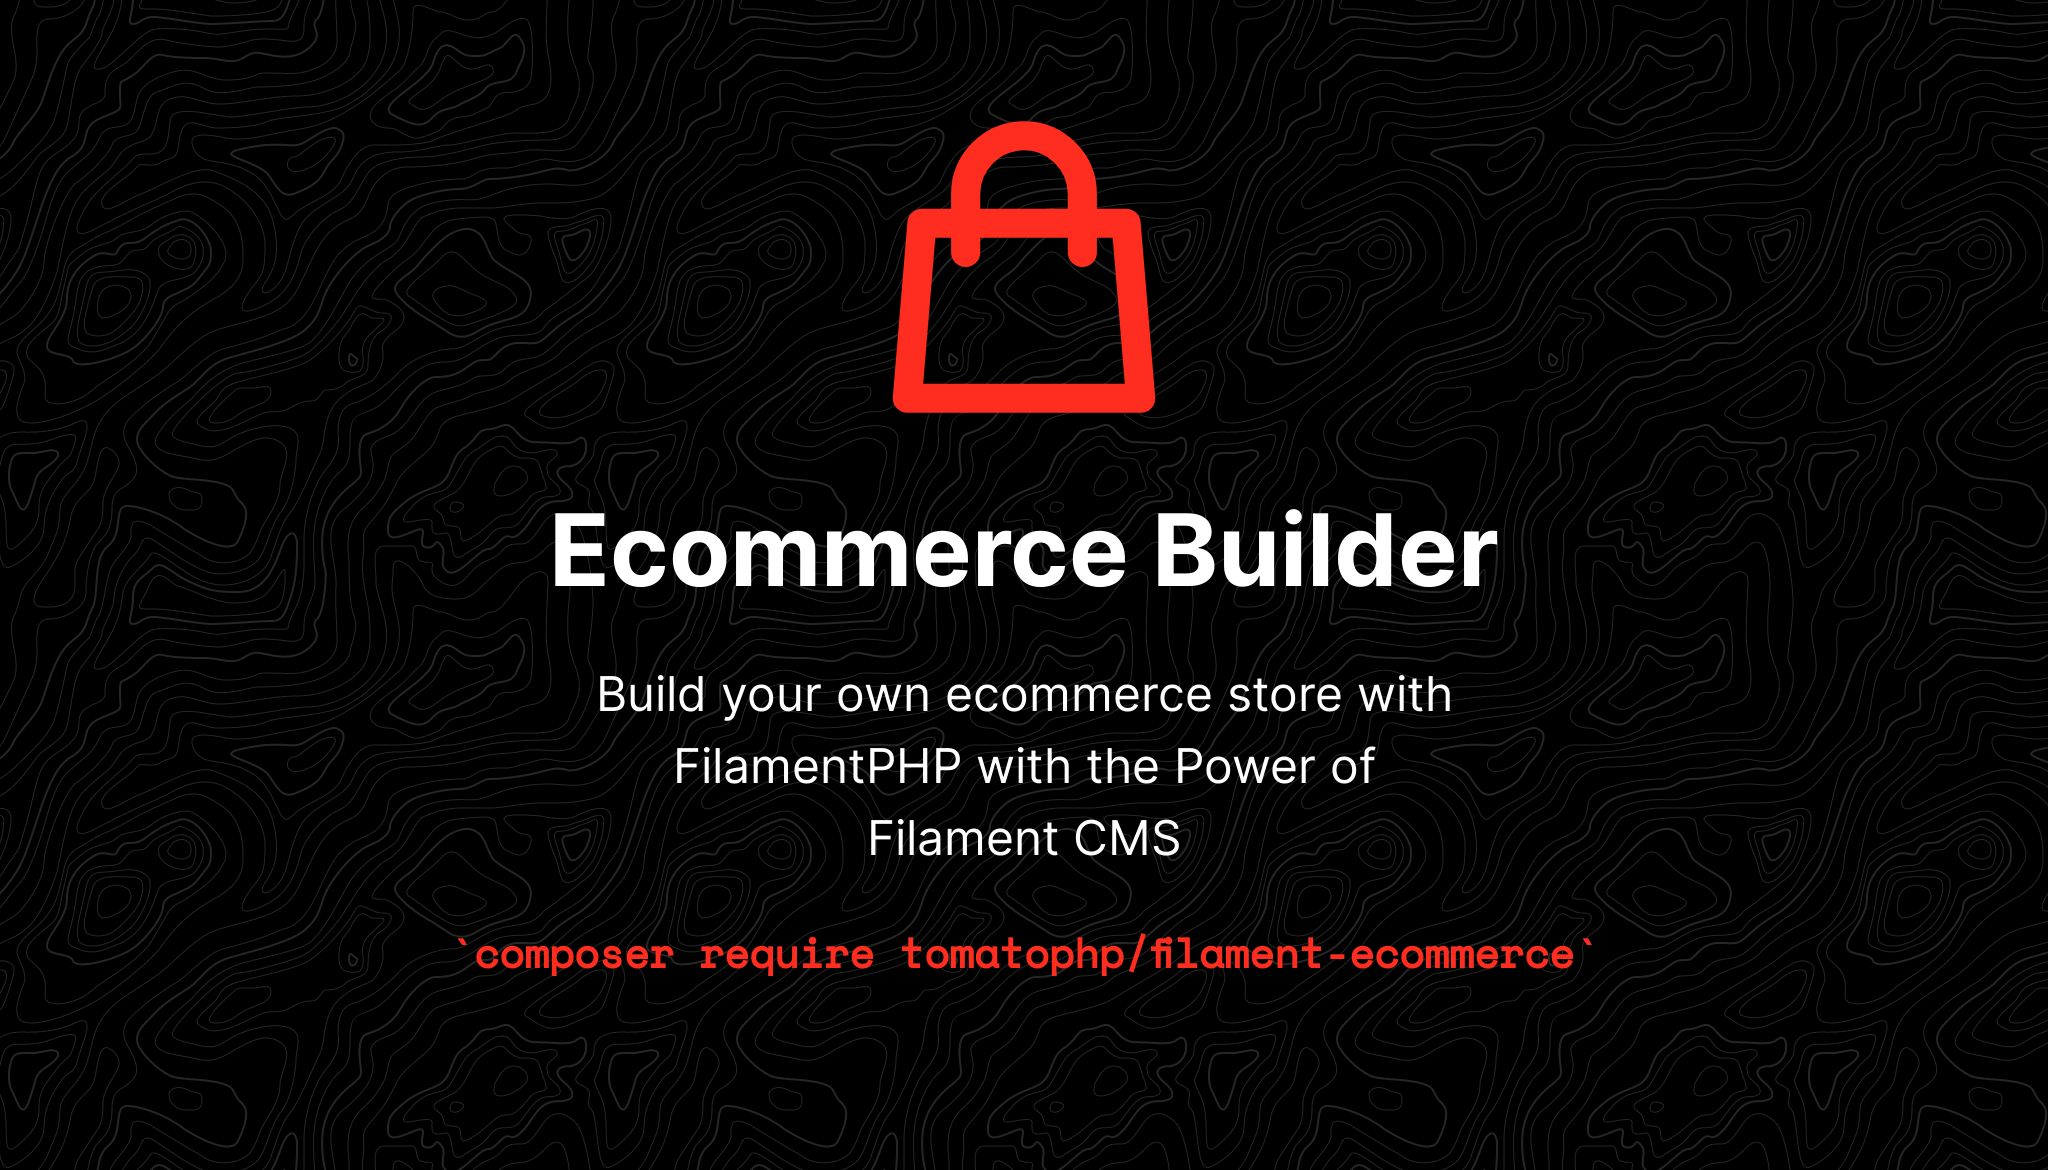
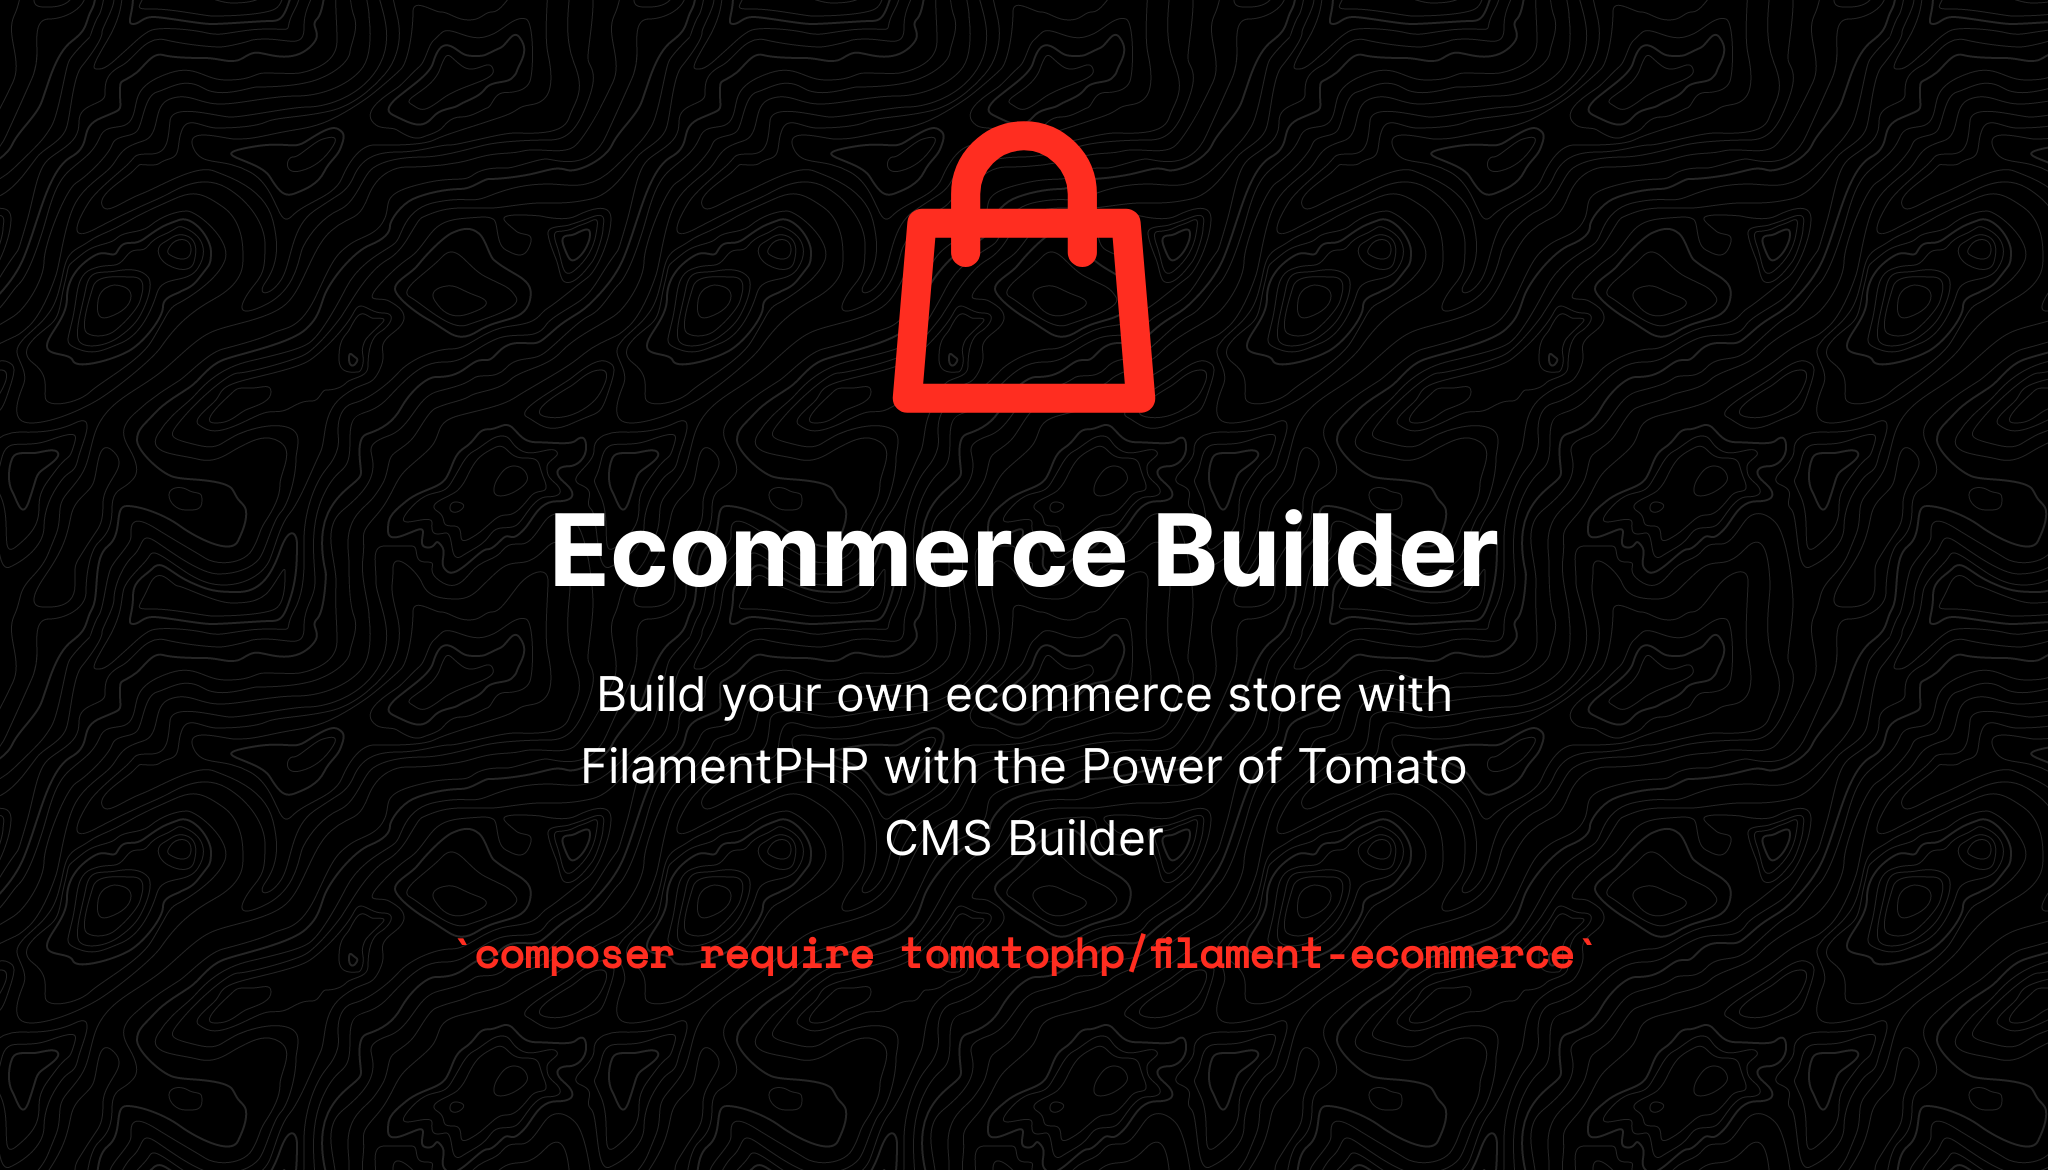
update images and description

Changed region(s): [[0.2188, 0.8, 0.7812, 0.8308], [0.2812, 0.6154, 0.7188, 0.6769], [0.4062, 0.7077, 0.5938, 0.7385]]

diff --git a/content/plugins/3x1io-tomato-ecommerce.md b/content/plugins/3x1io-tomato-ecommerce.md
@@ -3,7 +3,7 @@ name: Ecommerce Builder
 slug: 3x1io-tomato-ecommerce
 author_slug: 3x1io
 categories: [developer-tool]
-description: Build your own ecommerce store with FilamentPHP with the Power of Filament CMS
+description: Build your own ecommerce store with FilamentPHP with the Power of Tomato CMS Builder
 discord_url: 
 docs_url: https://raw.githubusercontent.com/tomatophp/filament-ecommerce/master/README.md
 github_repository: tomatophp/filament-ecommerce
